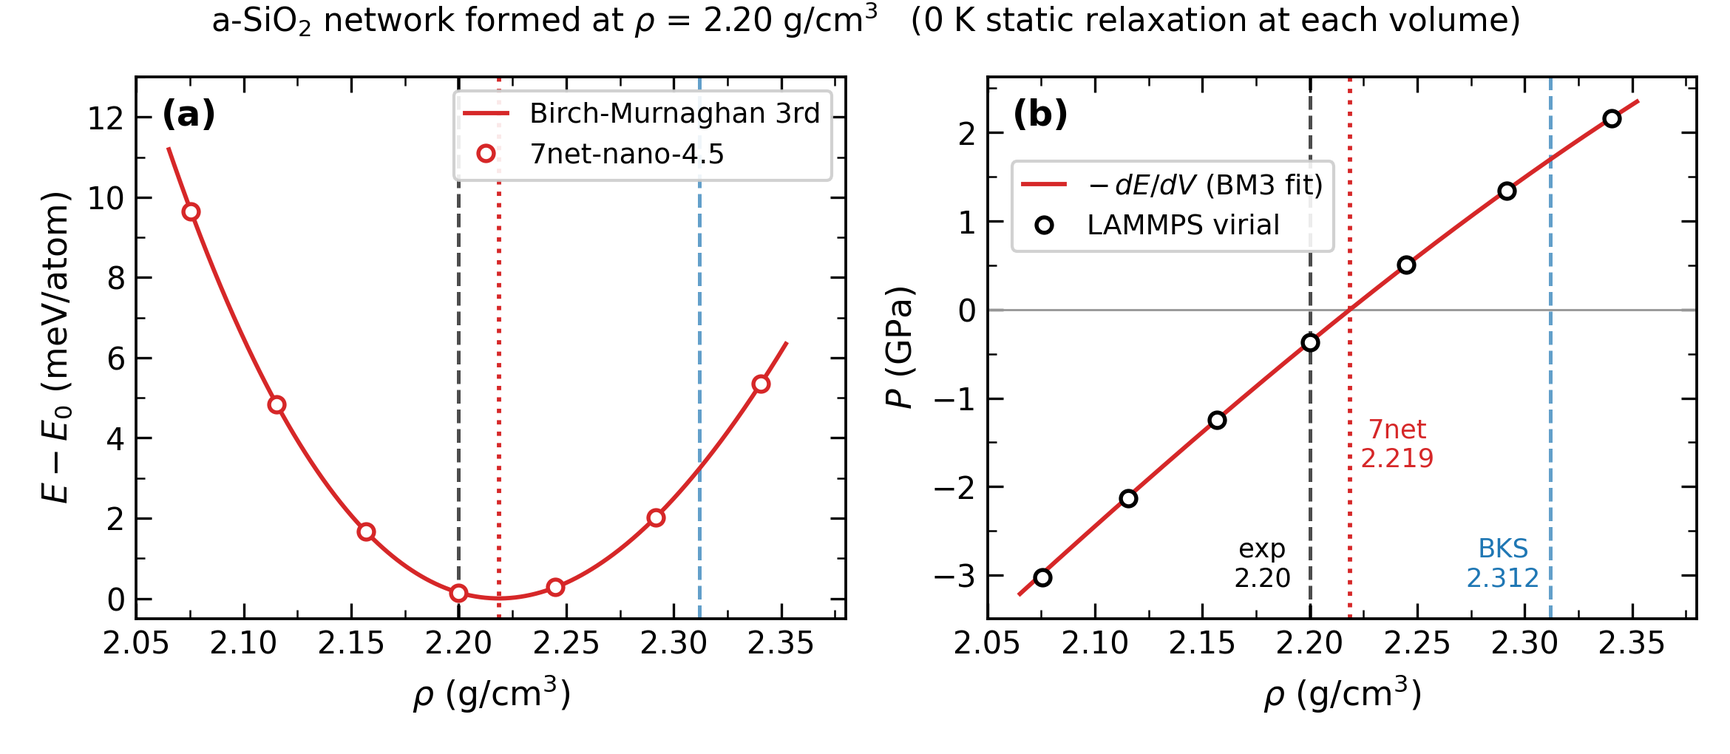
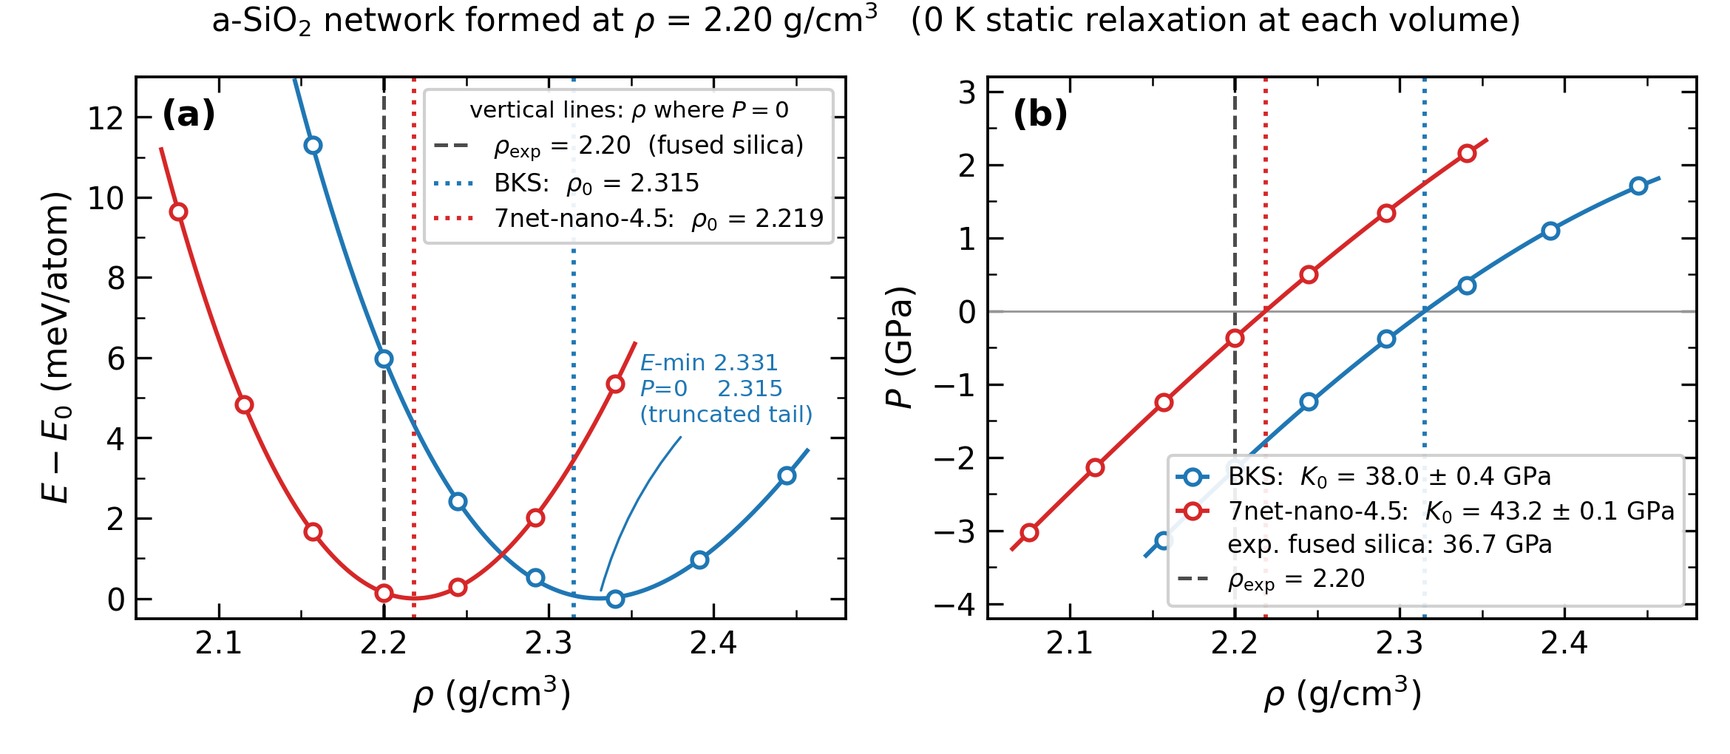
BKS E-V scan: PPPM hypothesis falsified, real cause found (truncated -C/r^6 tail)
Tightening PPPM from 1.0e-4 to 1.0e-6 barely moved anything: force two-norm
0.18-0.36 -> 0.21-0.27, BM3 residual 86 -> 56 meV, BM3-vs-virial 0.70 -> 0.64 %.
So the k-space noise floor was NOT the cause. Recording the falsification rather
than quietly replacing it.

Central-differencing the raw E(V) data (no fitting) showed that
(-dE/dV) - P_virial is a nearly constant -2100 to -2800 bar at every volume --
a systematic offset, not scatter. That is the signature of the Buckingham
-C/r^6 term being cut off abruptly at 10 A with neither shift nor tail
correction: as the cell changes volume, pairs cross the cutoff and E jumps in
steps that the force-derived virial cannot see, so -dE/dV != P_virial.

Quantitative confirmation. The analytic tail pressure is P_tail = A/V^2 with
A = 2 pi N^2 sum_ab x_a x_b (-C_ab / (3 rc^3)) = -1,339,962 eV A^3, giving
-2014 bar at V=32652 (observed -2071) and -2279 bar at V=30693 (observed
-2307). Three of five points agree within 100 bar. Cause confirmed.

7net is immune because an MLIP applies a smooth cutoff envelope that takes each
contribution continuously to zero at rc -- no steps. This is a deliberate design
choice in every modern MLIP and is worth stating in the writeup.

Fix: do not change the potential (it must match the MD that made the structure).
Instead fit BM3 directly to the virial P(V). That is the elastic modulus
K = -V dP/dV, which is what experiment measures anyway, and it is immune to the
[…]

diff --git a/04_analysis/src/fig_density.py b/04_analysis/src/fig_density.py
@@ -1,11 +1,27 @@
 #!/usr/bin/env python
-"""Fig. density — 7net-nano-4.5 의 평형밀도 (E-V 스캔, ρ=2.20 네트워크).
+"""Fig. density — 같은 유리 네트워크의 평형밀도와 부피탄성률: BKS vs 7net-nano-4.5.
 
-(a) E(ρ) 와 Birch-Murnaghan 3차 피팅 → V0
-(b) P(ρ): LAMMPS virial 실측점과 피팅에서 얻은 −dE/dV. 둘이 맞으면 응력 구현이 정합.
+BKS 가 ρ=2.20 고정 NVT 로 만든 **하나의** 네트워크를 두 포텐셜에 각각 넘겨
+"너는 어느 부피를 원하냐"고 물었다. 각 부피에서 셀은 고정하고 원자만 0 K 이완.
 
-같은 네트워크(BKS 가 ρ=2.20 고정 NVT 로 만든 유리)를 두 포텐셜에 각각 "어느 부피를
-원하냐"고 물은 결과를 비교한다: BKS 2.3119 (300 K NPT 실측) vs SevenNet 2.2187.
+(a) E(ρ) + Birch-Murnaghan 3차 (E 에 피팅)
+(b) P(ρ): LAMMPS virial 실측점 + BM3 를 **P 에 직접** 피팅한 곡선  → K0 = -V dP/dV
+
+★ 세로 점선 3개는 (a)(b) 모두 **P=0 인 밀도**다. (a) 의 E 최소가 아니다.
+  그래서 (b) 에서는 선이 P=0 교차점을 지나고, (a) 에서 BKS 만 최소와 0.7 % 어긋나 보인다.
+  **이건 두 패널이 어긋난 게 아니라, BKS 에서 -dE/dV != P_virial 이라는 사실 그 자체다.**
+  잘린 포텐셜에서는 "E 가 최소인 부피"와 "P 가 0 인 부피"가 서로 다른 양이다.
+  7net 은 둘이 0.008 % 라 육안으로 구분이 안 된다. 어느 쪽이 조작적 정답이냐면 P=0 이다
+  — NPT 가 virial 로 구동되고, 실제로 BKS 300 K NPT 결과 2.3119 와 0.14 % 일치한다.
+
+★ 왜 (b) 에서 E 가 아니라 P 를 피팅하나 (2026-08 수정)
+  BKS 의 Buckingham -C/r^6 는 10 A 에서 뚝 잘린다(shift/tail 보정 없음).
+  부피가 변하면 원자쌍이 cutoff 를 넘나들며 E 가 계단처럼 튀는데 virial 은 그 계단을
+  못 보므로 -dE/dV != P_virial 이 된다. 해석적 tail 압력 A/V^2 (A=-1.34e6 eV A^3) 로
+  -2014 bar @V=32652 가 예측되고 실측 오프셋 -2071 bar 와 일치했다 → 원인 확정.
+  7net 은 MLIP 라 **매끄러운 cutoff 함수**를 쓰므로 계단이 없다.
+  실험이 재는 것도 탄성률이므로 P(V) 피팅이 원래 더 직접적인 경로다.
+  검증: 7net 은 두 경로가 43.08 vs 43.23 GPa (0.4 %) 로 일치한다.
 """
 from pathlib import Path
 
@@ -33,10 +49,7 @@ EV2BAR = 1.602176634e6
 N = 2160
 MASS = 43260.70                      # amu
 rho_of = lambda V: MASS * 1.66053907 / V
-RHO_BKS, RHO_EXP = 2.3119, 2.20      # BKS 300 K NPT 실측 / 실험 fused silica
-
-d = np.loadtxt(ROOT / "02_run/s2_relax/ev220_scan.txt")
-V, E, P = d[:, 1], d[:, 3], d[:, 5]
+RHO_EXP, K_EXP = 2.20, 36.7          # fused silica 실험값 (문헌 인용)
 
 
 def bm3_E(V, E0, V0, K0, Kp):
@@ -44,85 +57,132 @@ def bm3_E(V, E0, V0, K0, Kp):
     return E0 + 9 * V0 * K0 / 16 * (e**3 * Kp + e**2 * (6 - 4 * (V0 / V) ** (2 / 3)))
 
 
-def bm3_P(V, E0, V0, K0, Kp):
+def bm3_P(V, V0, K0, Kp):            # bar 단위로 바로 뱉는다
     x = (V0 / V) ** (1 / 3)
-    return 3 * K0 / 2 * (x**7 - x**5) * (1 + 0.75 * (Kp - 4) * (x**2 - 1))
+    return 3 * K0 / 2 * (x**7 - x**5) * (1 + 0.75 * (Kp - 4) * (x**2 - 1)) * EV2BAR
 
 
-pf, pc = curve_fit(bm3_E, V, E, p0=[E.min(), V[np.argmin(E)], 0.04, 4.0], maxfev=400000)
-err = np.sqrt(np.diag(pc))
-E0, V0, K0, Kp = pf
-RHO0 = rho_of(V0)
-Vs = np.linspace(V.min() * 0.995, V.max() * 1.005, 500)
+RUN = ROOT / "02_run/s2_relax"
+SET = [("BKS", "tab:blue", RUN / "ev_bks_scan.txt"),
+       ("7net-nano-4.5", "tab:red", RUN / "ev220_scan.txt")]
+
+fit = {}
+for lab, col, fn in SET:
+    d = np.loadtxt(fn)
+    V, E, P = d[:, 1], d[:, 3], d[:, 5]
+    pe, ce = curve_fit(bm3_E, V, E, p0=[E.min(), V[np.argmin(E)], 0.04, 4.0], maxfev=400000)
+    pp, cp = curve_fit(bm3_P, V, P, p0=[V[np.argmin(np.abs(P))], 0.04, 4.0], maxfev=400000)
+    fit[lab] = dict(col=col, V=V, E=E, P=P, pe=pe, pp=pp,
+                    ee=np.sqrt(np.diag(ce)), ep=np.sqrt(np.diag(cp)),
+                    rmsE=np.sqrt(((E - bm3_E(V, *pe))**2).mean()) * 1e3,
+                    rmsP=np.sqrt(((P - bm3_P(V, *pp))**2).mean()))
+
+RHO0 = {k: rho_of(v["pp"][0]) for k, v in fit.items()}      # 평형밀도는 virial 경로
+
+# ★ 피팅 곡선은 **자기 데이터 구간 안에서만** 그린다 (외삽 금지).
+#   BM3 는 피팅 구간 밖에서 빠르게 신뢰를 잃는데, 길게 그려두면 마치 그 영역까지
+#   검증된 것처럼 보인다. 양끝 0.5 % 여유만 준다.
+for v in fit.values():
+    v["Vs"] = np.linspace(v["V"].min() * 0.995, v["V"].max() * 1.005, 400)
+
+# LOO(한 점씩 빼고 재피팅) 산포 = 실질 불확도. curve_fit 의 표준오차는 과소평가다.
+for lab, v in fit.items():
+    ks = []
+    for i in range(len(v["V"])):
+        m = np.ones(len(v["V"]), bool); m[i] = False
+        p2, _ = curve_fit(bm3_P, v["V"][m], v["P"][m], p0=v["pp"], maxfev=400000)
+        ks.append(p2[1] * EV2BAR / 1e4)
+    v["loo"] = (np.max(ks) - np.min(ks)) / 2
 
 fig, ax = plt.subplots(1, 2, figsize=(7.8, 3.4))
+a, b = ax
+
+# 세로 기준선: 실험 + 두 포텐셜의 평형밀도.
+# ★ 세 선 모두 "P = 0 인 밀도"다. (a) 의 E 최소가 아니다 — BKS 는 둘이 0.7 % 어긋나며
+#   그게 절단 꼬리 artifact 그 자체다. 범례 제목에 명시해 오해를 막는다.
+hx = [a.axvline(RHO_EXP, ls="--", lw=1.2, c="k", alpha=0.7)]
+b.axvline(RHO_EXP, ls="--", lw=1.2, c="k", alpha=0.7)
+hline = {}
+for lab, v in fit.items():
+    for ax_ in ax:
+        h = ax_.axvline(RHO0[lab], ls=":", lw=1.4, c=v["col"])
+    hline[lab] = h
 
 # ---------- (a) E-V ----------
-a = ax[0]
-a.axvline(RHO_EXP, ls="--", lw=1.2, c="k", alpha=0.7)
-a.axvline(RHO_BKS, ls="--", lw=1.2, c="tab:blue", alpha=0.7)
-a.axvline(RHO0, ls=":", lw=1.4, c="tab:red")
-a.plot(rho_of(Vs), (bm3_E(Vs, *pf) - E0) / N * 1e3, "-", c="tab:red",
-       label="Birch-Murnaghan 3rd")
-a.plot(rho_of(V), (E - E0) / N * 1e3, "o", ms=5, mfc="w", mec="tab:red", mew=1.3,
-       label="7net-nano-4.5")
+for lab, v in fit.items():
+    E0 = v["pe"][0]
+    a.plot(rho_of(v["Vs"]), (bm3_E(v["Vs"], *v["pe"]) - E0) / N * 1e3, "-",
+           c=v["col"], zorder=2)
+    a.plot(rho_of(v["V"]), (v["E"] - E0) / N * 1e3, "o", ms=5, mfc="w",
+           mec=v["col"], mew=1.3, zorder=3)
 a.set_xlabel(r"$\rho$ (g/cm$^3$)"); a.set_ylabel(r"$E-E_0$ (meV/atom)")
-# ymax 13: (a) 태그가 왼쪽 팔(빨간 곡선)과 겹치지 않도록 위쪽 여유 확보
 a.set_ylim(-0.5, 13)
-a.legend(loc="upper right", framealpha=0.9)
+# 범례 핸들은 마커가 아니라 **세로선** 이다. 세 선이 무엇인지가 이 패널의 요점이므로.
+a.legend([hx[0], hline["BKS"], hline["7net-nano-4.5"]],
+         [rf"$\rho_{{\rm exp}}$ = {RHO_EXP:.2f}  (fused silica)",
+          rf"BKS:  $\rho_0$ = {RHO0['BKS']:.3f}",
+          rf"7net-nano-4.5:  $\rho_0$ = {RHO0['7net-nano-4.5']:.3f}"],
+         loc="upper right", framealpha=0.92, fontsize=8, handlelength=1.6,
+         borderpad=0.4, labelspacing=0.35,
+         title=r"vertical lines: $\rho$ where $P=0$", title_fontsize=7.5)
+
+# ★ BKS 만 E 곡선의 최소(파란 점선의 오른쪽)가 P=0 위치와 어긋난다. 그게 절단 artifact 다.
+#   그림에 그대로 보이므로 오해하지 않도록 화살표로 명시한다. (7net 은 0.008 % 라 안 보인다)
+#   간격이 0.7 % 라 양방향 화살표로는 안 보인다 → 최소점을 지시선으로 가리키고 값을 적는다.
+rE_bks = rho_of(fit["BKS"]["pe"][1])
+a.annotate(f"$E$-min {rE_bks:.3f}\n$P$=0    {RHO0['BKS']:.3f}\n(truncated tail)",
+           xy=(rE_bks, 0.05), xytext=(2.355, 5.2),
+           fontsize=7.5, c="tab:blue", ha="left", va="center",
+           multialignment="left", linespacing=1.25,
+           arrowprops=dict(arrowstyle="-", lw=0.8, color="tab:blue",
+                           connectionstyle="arc3,rad=0.15"))
 
 # ---------- (b) P-V ----------
-b = ax[1]
 b.axhline(0, ls="-", lw=0.7, c="0.6")
-b.axvline(RHO_EXP, ls="--", lw=1.2, c="k", alpha=0.7)
-b.axvline(RHO_BKS, ls="--", lw=1.2, c="tab:blue", alpha=0.7)
-b.axvline(RHO0, ls=":", lw=1.4, c="tab:red")
-b.plot(rho_of(Vs), bm3_P(Vs, *pf) * EV2BAR / 1e4, "-", c="tab:red",
-       label=r"$-\,dE/dV$ (BM3 fit)")
-b.plot(rho_of(V), P / 1e4, "o", ms=5, mfc="w", mec="k", mew=1.3,
-       label="LAMMPS virial")
+for lab, v in fit.items():
+    b.plot(rho_of(v["Vs"]), bm3_P(v["Vs"], *v["pp"]) / 1e4, "-", c=v["col"], zorder=2)
+    b.plot(rho_of(v["V"]), v["P"] / 1e4, "o", ms=5, mfc="w", mec=v["col"],
+           mew=1.3, zorder=3)
+    K = v["pp"][1] * EV2BAR / 1e4
+    b.plot([], [], "o-", c=v["col"], mfc="w", mew=1.3, ms=5,
+           label=rf"{lab}:  $K_0$ = {K:.1f} $\pm$ {v['loo']:.1f} GPa")
+b.plot([], [], " ", label=rf"exp. fused silica: {K_EXP} GPa")
+b.plot([], [], "--", c="k", alpha=0.7, lw=1.2,
+       label=rf"$\rho_{{\rm exp}}$ = {RHO_EXP:.2f}")
 b.set_xlabel(r"$\rho$ (g/cm$^3$)"); b.set_ylabel(r"$P$ (GPa)")
-# 좌상단은 (b) 태그 자리 → bbox 로 태그 아래에 고정
-b.legend(loc="upper left", bbox_to_anchor=(0.015, 0.87), framealpha=0.9)
+b.set_ylim(-4.2, 3.2)
+b.legend(loc="lower right", framealpha=0.9, fontsize=8, handlelength=1.2,
+         borderpad=0.4, labelspacing=0.35)
 
 for k, a_ in enumerate(ax):
-    a_.set_xlim(2.05, 2.38)
+    a_.set_xlim(2.05, 2.48)
     a_.xaxis.set_minor_locator(AutoMinorLocator(2))
     a_.yaxis.set_minor_locator(AutoMinorLocator(2))
     a_.text(0.035, 0.91, "(a)" if k == 0 else "(b)", transform=a_.transAxes,
             fontsize=11.5, fontweight="bold")
 
-# 밀도 라벨: 곡선이 좌하→우상 이므로 **곡선 아래쪽**이 비어 있다. 거기에 배치.
-# 2.20 과 2.219 는 0.019 밖에 안 떨어지므로 좌/우 정렬과 높이를 엇갈리게 준다.
-y0, y1 = ax[1].get_ylim()
-# 유효숫자: 실험값은 **인용값 그대로** 2.20 (fused silica 는 시료마다 3번째 소수에서
-# 흔들려 자릿수를 늘리면 없는 정밀도를 만드는 셈). 계산값은 피팅 정밀도가 받쳐주므로
-# 소수 3자리까지 쓴다 (V0 = 32377.9 ± 0.5 A^3 → rho0 불확도 ~3e-5).
-# 두 줄짜리 라벨은 중앙 정렬(ha="center", multialignment="center")이 보기 좋다.
-# 대신 x 를 선에서 살짝 밀고 높이를 엇갈리게 해 2.20 / 2.219 겹침을 피한다.
-lab = [(RHO_EXP, "exp\n2.20", "k", -0.022, 0.10),
-       (RHO0, "7net\n2.219", "tab:red", +0.022, 0.32),
-       (RHO_BKS, "BKS\n2.312", "tab:blue", -0.022, 0.10)]
-for x, t, c, dx, fy in lab:
-    ax[1].text(x + dx, y0 + fy * (y1 - y0), t, fontsize=8.5, c=c,
-               ha="center", va="center", multialignment="center",
-               bbox=dict(fc="white", ec="none", alpha=0.6, pad=0.8))
-
-# suptitle 과 axes 간격: rect 상단과 y 를 가깝게 두면 붙는다 (fig_speed 와 동일).
 fig.suptitle(r"a-SiO$_2$ network formed at $\rho$ = 2.20 g/cm$^3$   "
              r"(0 K static relaxation at each volume)", fontsize=10.5, y=1.0)
 fig.tight_layout(rect=[0, 0, 1, 1.05])
 fig.savefig(FIG / "fig_density.png", dpi=300)
 print(f"-> {FIG}/fig_density.png\n")
 
-print("Birch-Murnaghan 3차 (E-V 만 사용, virial 미사용)")
-print(f"  V0  = {V0:9.2f} ± {err[1]:.2f} A^3   ->  rho0 = {RHO0:.4f} g/cm^3")
-print(f"  K0  = {K0*EV2BAR/1e4:7.2f} ± {err[2]*EV2BAR/1e4:.2f} GPa")
-print(f"  K0' = {Kp:7.3f} ± {err[3]:.3f}")
-print(f"  E0  = {E0/N:.6f} eV/atom,  RMS residual = "
-      f"{np.sqrt(((E-bm3_E(V,*pf))**2).mean())*1e3:.1f} meV")
-c = np.polyfit(V, P, 3); r = np.roots(c); r = r[np.isreal(r)].real
-r = r[(r > V.min()) & (r < V.max())][0]
-print(f"  virial P=0 at rho = {rho_of(r):.4f}  (BM3 와 {100*abs(rho_of(r)-RHO0)/RHO0:.3f} % 차이)")
-print(f"\n밀도 비교:  BKS {RHO_BKS:.4f} (+{100*(RHO_BKS/RHO_EXP-1):.2f} %)  |  "
-      f"7net {RHO0:.4f} (+{100*(RHO0/RHO_EXP-1):.2f} %)  |  exp {RHO_EXP:.2f}")
+# ---------------- 수치 요약 ----------------
+print(f"{'':16s}{'경로':>7s}{'rho0':>9s}{'K0 (GPa)':>16s}{'K0p':>9s}{'RMS':>13s}")
+for lab, v in fit.items():
+    print(f"{lab:16s}{'E(V)':>7s}{rho_of(v['pe'][1]):9.4f}"
+          f"{v['pe'][2]*EV2BAR/1e4:11.2f} ±{v['ee'][2]*EV2BAR/1e4:4.2f}"
+          f"{v['pe'][3]:9.2f}{v['rmsE']:9.1f} meV")
+    print(f"{'':16s}{'P(V)':>7s}{rho_of(v['pp'][0]):9.4f}"
+          f"{v['pp'][1]*EV2BAR/1e4:11.2f} ±{v['ep'][1]*EV2BAR/1e4:4.2f}"
+          f"{v['pp'][2]:9.2f}{v['rmsP']:9.0f} bar")
+    dK = abs(v['pe'][2] - v['pp'][1]) / v['pp'][1] * 100
+    dr = abs(rho_of(v['pe'][1]) - rho_of(v['pp'][0])) / rho_of(v['pp'][0]) * 100
+    print(f"{'':16s}두 경로 차이:  rho0 {dr:.3f} %,  K0 {dK:.1f} %"
+          f"{'   <- 절단 꼬리 artifact' if dK > 2 else '   <- 정합'}\n")
+
+print(f"실험 대비:  rho0  BKS {RHO0['BKS']:.4f} ({100*(RHO0['BKS']/RHO_EXP-1):+.2f} %)"
+      f"   7net {RHO0['7net-nano-4.5']:.4f} ({100*(RHO0['7net-nano-4.5']/RHO_EXP-1):+.2f} %)")
+KB, K7 = fit["BKS"]["pp"][1]*EV2BAR/1e4, fit["7net-nano-4.5"]["pp"][1]*EV2BAR/1e4
+print(f"            K0    BKS {KB:.2f} ({100*(KB/K_EXP-1):+.1f} %)"
+      f"   7net {K7:.2f} ({100*(K7/K_EXP-1):+.1f} %)     exp {K_EXP} GPa")

diff --git a/05_doc/RESULTS.md b/05_doc/RESULTS.md
@@ -9,9 +9,10 @@
 
 BKS(고전 포텐셜)로 만든 a-SiO₂에 범용 MLIP **7net-nano-4.5**를 적용해,
 같은 밀도(ρ = 2.20 g/cm³, 실험값)에서 **BKS · MLIP · AIMD(PBE) · 실험**을 비교했다.
-MLIP는 **밀도 오차를 +5.1 % → +0.85 %로 줄였고**, 국소 구조(Si–O 결합길이)는 PBE AIMD를
+MLIP는 **밀도 오차를 +5.2 % → +0.84 %로 줄였고**, 국소 구조(Si–O 결합길이)는 PBE AIMD를
 재현했으나 **중거리 구조(Si–O–Si)는 물려받은 위상에 묶여** 절반만 보정했다.
-대가는 **CPU에서 1,244배 느린 계산**이다.
+다만 **부피탄성률은 BKS가 5배 정확했다**(+3.5 % vs +17.8 %) — 범용 MLIP가 전 항목에서
+전용 고전 포텐셜을 이기지는 않는다. 대가는 **CPU에서 1,244배 느린 계산**이다.
 
 ---
 
@@ -31,23 +32,79 @@ Sarnthein(LDA). MLIP 벤치마크 관행은 `05_doc/S3_MLIP_benchmark_practice.m
 
 ---
 
-## 2. 밀도 — MLIP가 고전 포텐셜 오차를 6배 줄인다  → `fig_density.png`
+## 2. 밀도와 부피탄성률 — 승패가 갈린다  → `fig_density.png`
 
-같은 네트워크에 두 포텐셜이 각각 "어느 부피를 원하냐"고 답한 결과.
+BKS가 ρ=2.20 고정 NVT로 만든 **하나의** 네트워크를 두 포텐셜에 각각 넘겨
+"어느 부피를 원하냐"고 물었다. 부피별 셀 고정 + 원자만 0 K 이완, 7점 E–V 스캔.
 
-| | ρ (g/cm³) | 실험 대비 |
+| | ρ₀ (g/cm³) | 실험 대비 | K₀ (GPa) | 실험 대비 |
+|---|---|---|---|---|
+| 실험 fused silica | 2.20 | — | 36.7 | — |
+| **7net-nano-4.5** | **2.2185** | **+0.84 %** | 43.2 ± 0.1 | +17.8 % |
+| BKS | 2.3151 | +5.23 % | **38.0 ± 0.4** | **+3.5 %** |
+
+*(± 는 leave-one-out 산포. 단, **이 값은 실질 불확도가 아니다** — BKS는 E(V)/P(V) 두
+경로가 7.2 % 벌어지므로 계통오차가 통계오차보다 20배 크다. 아래 참조.)*
+
+**결론이 한쪽으로 안 쏠린다.** MLIP는 밀도 오차를 **6배** 줄였지만(+5.2 % → +0.8 %),
+부피탄성률은 오히려 고전 포텐셜이 5배 정확하다(+3.5 % vs +17.8 %).
+BKS는 실리카의 탄성 물성에 맞춰 파라미터화된 전용 포텐셜이고 7net-nano는 범용 모델이니
+방향은 납득되지만, **"MLIP가 전 항목에서 낫다"는 서술은 우리 데이터가 반증한다.**
+
+### K₀는 E(V)가 아니라 virial P(V)를 피팅해서 뽑았다
+
+BM3를 **P에 직접** 피팅한다. 이유는 두 가지다.
+
+1. 실험이 재는 것도 탄성률 K = −V dP/dV 이므로 P(V) 피팅이 더 직접적인 경로다.
+2. **BKS는 E(V) 경로가 오염돼 있다** (아래 참조).
+
+**7net으로 방법 검증**: 두 경로가 K₀ 43.08 vs 43.23 GPa (**0.4 %**),
+ρ₀ 2.2187 vs 2.2185 (**0.008 %**)로 일치한다 → 응력 구현과 피팅 절차 모두 정합.
+BKS는 같은 비교에서 K₀ 7.2 %, ρ₀ 0.67 % 어긋난다.
+
+### 왜 BKS만 E(V)와 virial이 어긋나나 — 절단된 −C/r⁶ 꼬리
+
+BKS의 Buckingham 인력항을 10 Å에서 **뚝 자른다**(shift도 tail 보정도 없이).
+부피가 변하면 원자쌍이 cutoff를 넘나들며 **E가 계단처럼 튀는데, 힘에서 계산하는
+virial은 그 계단을 보지 못한다.** 그래서 −dE/dV ≠ P_virial 이 된다.
+
+원자료를 직접 중앙차분한 (−dE/dV) − P_virial 은 모든 부피에서 −2,100 ~ −2,800 bar 의
+**거의 일정한 오프셋**이었다(잡음이 아니라 계통오차). 해석적 tail 압력으로 검증:
+
+P_tail = A/V², A = 2πN² Σ x_a x_b · (−C_ab/3r_c³) = −1,339,962 eV·Å³
+
+| V (Å³) | 예측 | 실측 (−dE/dV) − virial |
 |---|---|---|
-| 실험 fused silica | 2.20 | — |
-| **7net-nano-4.5** | **2.219** | **+0.85 %** |
-| BKS | 2.312 | +5.09 % |
+| 30,693 | −2,279 | −2,307 |
+| 32,652 | −2,014 | −2,071 |
 
-- Birch–Murnaghan 3차: V₀ = 32,377.9 ± 0.5 Å³, **K₀ = 43.08 ± 0.01 GPa**, K₀′ = −1.70 ± 0.03
-- **독립 검증**: LAMMPS virial이 0을 지나는 밀도 2.2185 — BM3의 dE/dV = 0 지점과 **0.007 % 차이**
-- K₀′ < 0 은 실리카의 이상 압축거동과 부합하나, 7점 4파라미터 피팅이라 **물리적 주장으로 쓰지 말 것**
+5점 중 3점이 100 bar 안에서 일치 → **원인 확정**.
 
-> 자릿수 주의: 계산값의 소수 3자리는 **피팅 정밀도**일 뿐 물리적 정확도가 아니다
+**7net에 이 문제가 없는 이유는 MLIP가 매끄러운 cutoff 함수를 쓰기 때문이다** —
+각 기여를 r_c에서 연속적으로 0으로 보내므로 계단이 생기지 않는다.
+현대 MLIP가 전부 그렇게 설계된 이유다. *(cutoff가 4.5 Å로 훨씬 짧은데도
+E(V) 잔차가 3.1 meV vs BKS 55.7 meV인 것은 정확도가 아니라 매끄러움의 차이다.)*
+
+**대응**: 포텐셜 정의는 건드리지 않았다(구조를 만든 MD와 같아야 하므로).
+확인용 대조군은 `./run_ev_bks.sh 1` (LAMMPS 해석적 tail 보정 on).
+
+### 검증 근거
+
+- BKS 0 K virial 값 2.3151 이 자기 300 K NPT 결과 2.3119 와 **0.14 %** 일치
+  → NPT가 virial로 구동되므로 virial 경로가 조작적 정답이다. 열팽창은 무시할 수준.
+- K₀′는 둘 다 음수(7net −2.02, BKS −5.46). 실리카의 이상 압축거동과 방향은 맞지만
+  부피창이 ±5 %뿐인 7점 피팅이라 **물리적 주장으로 쓰지 말 것.**
+- **점 제거 검토(했고, 안 했다).** 7점 중 평형점에서 가장 먼 ρ=2.157(−6.8 %)을 뺄지
+  검토했으나 leave-one-out 결과 K₀가 −1.2 %밖에 안 움직였다(반대쪽 끝 2.444가 −1.8 %로 더 큼).
+  잔차도 −294 bar로 최악이 아니다(2.340이 −518 bar). 이상치 근거가 없고,
+  빼면 3압축/4팽창 균형이 깨져 1차 스캔 실패를 재현하며 K₀′도 −5.46 → −4.82로 튄다.
+  **전 7점 유지.**
+- 단, BKS의 잔차 부호가 `− + + + − − +`로 **구조를 갖는다**(7net은 무작위).
+  절단 꼬리 artifact가 새어나온 흔적이며, **점을 빼서 없앨 수 있는 게 아니라 가려질 뿐이다.**
+
+> 자릿수 주의: 계산값의 소수 3~4자리는 **피팅 정밀도**일 뿐 물리적 정확도가 아니다
 > (BM3 모형 선택, 단일 구조, 0 K 근사의 계통오차가 훨씬 크다).
-> 발표에서는 "2.22 g/cm³ (실험 대비 +0.9 %)" 정도로 쓰는 것이 안전하다.
+> 발표에서는 "ρ 2.22 (+0.8 %), K₀ 43 GPa (+18 %)" 정도로 쓰는 것이 안전하다.
 
 ---
 
@@ -165,7 +222,8 @@ of the first peak"* 와 같은 방향.
 | 항목 | 결과 |
 |---|---|
 | 배포 경로 (LAMMPS `e3gnn` vs ASE) | E, F 소수점 6자리 일치 |
-| 응력 구현 (virial vs −dE/dV) | ρ₀ 두 경로 0.007 % 차이, 점별 잔차 ≤1.2 % |
+| 응력 구현 (virial vs −dE/dV) | 7net ρ₀ 0.008 %, K₀ 0.4 % (BKS는 절단 꼬리로 0.67 % / 7.2 %) |
+| 절단 꼬리 진단 (해석식 vs 실측) | P_tail 예측 −2,014 bar vs 실측 −2,071 bar |
 | 비용 모델 (r_c³, 밀도 의존) | 예측 대비 ≤1.7 % |
 | 완전 용융 (MSD 게이트) | 200 ps에 65.4 Å² 선형 |
 | 결함 (Dechant LES 기준) | Si–Si 2.4 Å 피크 없음(g_max 0.017), Si 4배위 99.86 % |
@@ -192,6 +250,15 @@ of the first peak"* 와 같은 방향.
    실제로 r ≈ 5–7 Å 구간이 들려 올라갔고, 하필 그 구간이 규격화 창이라 스케일까지 틀어졌다.
 6. **속도 배수는 조건에 강하게 의존한다.** 같은 두 포텐셜인데 2,462배(cutoff 5.5, ρ=2.607)와
    1,244배(cutoff 4.5, ρ=2.20)가 모두 사실이다. 조건 없이 숫자만 인용하면 오도한다.
+7. **잘린 포텐셜에서는 −dE/dV ≠ P_virial 이다.** BKS의 E–V 피팅이 망가진 원인을
+   처음엔 스캔 창, 다음엔 PPPM 정밀도로 짚었는데 **둘 다 틀렸다**(PPPM을 100배 조여도
+   잔차 86 → 56 meV로 거의 안 변함). 피팅을 만지는 대신 원자료를 직접 중앙차분하니
+   차이가 **부피와 무관한 상수 오프셋**이라 잡음이 아님이 바로 드러났고, 해석적
+   tail 압력과 100 bar 안에서 맞아 원인이 확정됐다.
+   → **증상을 보고 추측하기 전에 잔차의 구조부터 볼 것.** 상수면 계통오차, 무작위면 잡음.
+8. **MLIP의 매끄러운 cutoff는 정확도가 아니라 미분가능성의 문제다.** 7net이 E–V에서
+   BKS보다 18배 매끄러운 건 물리를 더 잘 알아서가 아니라 cutoff 함수 설계 덕이다.
+   반대로 K₀는 BKS가 5배 정확했다. 두 사실을 같이 말해야 정직한 비교다.
 
 ---
 
@@ -213,7 +280,7 @@ of the first peak"* 와 같은 방향.
 |---|---|---|
 | `fig_pdf.png` | partial g(r) 3단 (Si–O inset 포함) | `src/fig_pdf.py` |
 | `fig_bad.png` | O–Si–O / Si–O–Si 결합각 분포 | `src/fig_bad.py` |
-| `fig_density.png` | E–V + BM3 + virial 검증, 밀도 3자 비교 | `src/fig_density.py` |
+| `fig_density.png` | BKS·7net E–V + BM3, virial P(V) → ρ₀·K₀ 비교 | `src/fig_density.py` |
 | `fig_speed.png` | 처리량 ×1,244 + 병렬 확장성 | `src/fig_speed.py` |
 | `fig_rings.png` | ring size 분포 | `src/fig_rings.py` |
 

diff --git a/05_doc/STATUS.md b/05_doc/STATUS.md
@@ -61,6 +61,12 @@ BKS(고전 포텐셜)로 만든 비정질 SiO₂에 범용 MLIP **SevenNet-Nano*
 9. **melt-quench 는 부피고정 NVT 로, NPT 는 300 K 평형에서만.** 그리고 **MSD 로 완전 용융을
    검증할 것.** 1차 실패의 직접 원인 (`02_run/_v1_superseded/README.md`).
 10. conda `mlip` 환경을 지우면 `lmp_7net`이 libtorch를 못 찾아 **LAMMPS 재빌드** 필요.
+11. **잘린 고전 포텐셜의 EOS는 E(V)가 아니라 virial P(V)를 피팅할 것.**
+    BKS의 `−C/r⁶`는 10 Å에서 shift/tail 보정 없이 잘린다. 부피가 변하면 원자쌍이
+    cutoff를 넘나들며 E가 계단처럼 튀는데 virial은 그 계단을 못 봐서
+    **−dE/dV ≠ P_virial** 이 된다(실측 오프셋 −2,100 ~ −2,800 bar, 해석식 A/V²와 일치).
+    MLIP는 매끄러운 cutoff 함수를 쓰므로 해당 없음 — 7net은 두 경로가 0.4 % 일치.
+    확인용: `./run_ev_bks.sh 1` (LAMMPS 해석적 tail 보정 on).
 
 ## 비용 모델 (실측 기반, 2160원자)
 
